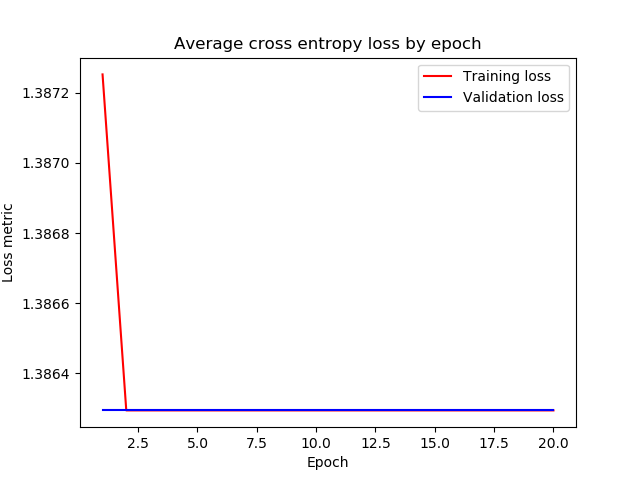
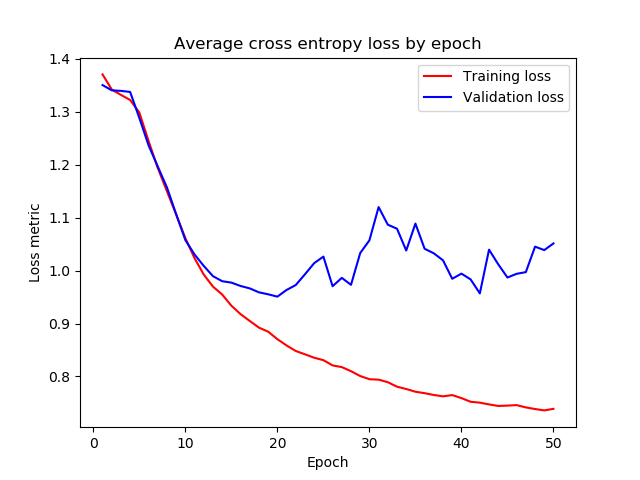
Finished second model

diff --git a/modelling/model_2020_04_05_1/CNNAugData.py b/modelling/model_2020_04_05_1/CNNAugData.py
@@ -28,13 +28,13 @@ class CNNAugData(nn.Module):
         num_neurons_in_layers: Tuple[int, int],
         num_y_classes: int,
         device: torch.cuda.device,
-        optim = optim.Adam,
+        # optim = optim.Adam,
         loss_function = nn.CrossEntropyLoss() # multiclass, single label => categorical crossentropy
     ):
         super().__init__()
         self.loss_function = loss_function
         self.used_device = device
-        self.optim = optim
+        # self.optim = optim
 
         num_1st_filter, num_2nd_filter, num_3rd_filter, num_4th_filter = num_filters
         num_1st_layer_neurons, num_2nd_layer_neurons = num_neurons_in_layers
@@ -47,6 +47,7 @@ class CNNAugData(nn.Module):
 
         # First dense input = [batch_size, height * width * num_channels]
         x = torch.randn(3, 128, 128).view(-1, 3, 128, 128)
+        # x = torch.randn(3, 128, 128).permute(2, 0, 1)
         self._conv_out_len = None
         self._conv_forward(x)
 
@@ -83,9 +84,13 @@ class CNNAugData(nn.Module):
 
 
     def forward(self, x: torch.Tensor) -> torch.Tensor:
+        # print('Input:', x.shape)
         x = self._conv_forward(x)
+        # print('Nach Conv:', x.shape)
         x = self._prepare_conv_to_dense(x)
+        # print('Prep for dense:', x.shape)
         x = self._dense_forward(x)
+        # print('Output:', x.shape)
 
         return x
 
@@ -100,13 +105,14 @@ class CNNAugData(nn.Module):
     ) -> None:
         val_X, val_y = data.get_val()
         val_X, val_y = torch.from_numpy(val_X), torch.from_numpy(val_y)
-        val_X = val_X.view(-1, 3, 128, 128)
+        # val_X = val_X.view(-1, 3, 128, 128)
+        val_X = val_X.permute(0, 3, 1, 2)
         val_X, val_y = val_X.float(), val_y.long()
         # Assigned to GPU in batches in validate method.
 
         model = self
         model = model.to(self.used_device)
-        optimizer = self.optim(self.parameters(), lr = learning_rate)
+        optimizer = optim.Adam(model.parameters(), lr = learning_rate)
         num_batches = data.num_possible_batches(batch_size)
         batch_range = range(num_batches) # from 0, to the len of x, stepping BATCH_SIZE at a time. [:50] ..for now just to dev
 
@@ -118,11 +124,13 @@ class CNNAugData(nn.Module):
             for _ in tqdm(batch_range):
                 batch_X, batch_y = epoch_data.get_next_batch(batch_size)
                 batch_X, batch_y = torch.from_numpy(batch_X), torch.from_numpy(batch_y)
-                batch_X = batch_X.view(-1, 3, 128, 128)
+                # batch_X = batch_X.view(-1, 3, 128, 128)
+                batch_X = batch_X.permute(0, 3, 1, 2)
                 batch_X, batch_y = batch_X.float(), batch_y.long()
                 batch_X, batch_y = batch_X.to(self.used_device), batch_y.to(self.used_device)
 
                 model.zero_grad()
+                # print('Train pass')
                 pred_y = model(batch_X)
                 loss =  self.loss_function(pred_y, batch_y)
                 train_losses.append(loss.item())
@@ -134,8 +142,8 @@ class CNNAugData(nn.Module):
                 accuracy = num_correct / batch_size
                 train_accuracies.append(accuracy)
 
-            print(epoch)
-            # print(train_accuracies, train_losses)
+            print(pred_y)
+            # print('val pass')
             val_loss, val_acc = model.validate(val_X, val_y, batch_size)
             tracker.add_train(mean(train_losses), mean(train_accuracies))
             tracker.add_val(val_loss, val_acc)
@@ -183,7 +191,8 @@ class CNNAugData(nn.Module):
 
     def predict(self, test_X: np.array) -> torch.Tensor:
         test_X = torch.from_numpy(test_X)
-        test_X = test_X.view(-1, 3, 128, 128).float()
+        # test_X = test_X.view(-1, 3, 128, 128).float()
+        test_X = test_X.permute(0, 3, 1, 2).float()
         test_X = test_X.to(self.used_device)
 
         model = self

diff --git a/main_2020_04_05_1.py b/main_2020_04_05_1.py
@@ -12,10 +12,10 @@ from util.create_submit import create_submit
 def main() -> None:
     detect_gpu()
     device = get_device()
-    model = CNNAugData((64, 128, 512, 1024), (1024, 1024), 4, device)
+    model = CNNAugData((16, 32, 64, 128), (512, 128), 4, device)
     data = FirstAugmentedDataset()
     tracker = PerformanceTracker(path.join('modelling', 'model_2020_04_05_1'))
-    model.train(data, 20, 20, tracker, learning_rate = 0.001)
+    model.train(data, 50, 20, tracker, learning_rate = 0.0001)
     tracker.graphs()
     tracker.save('metrics.csv')
 
